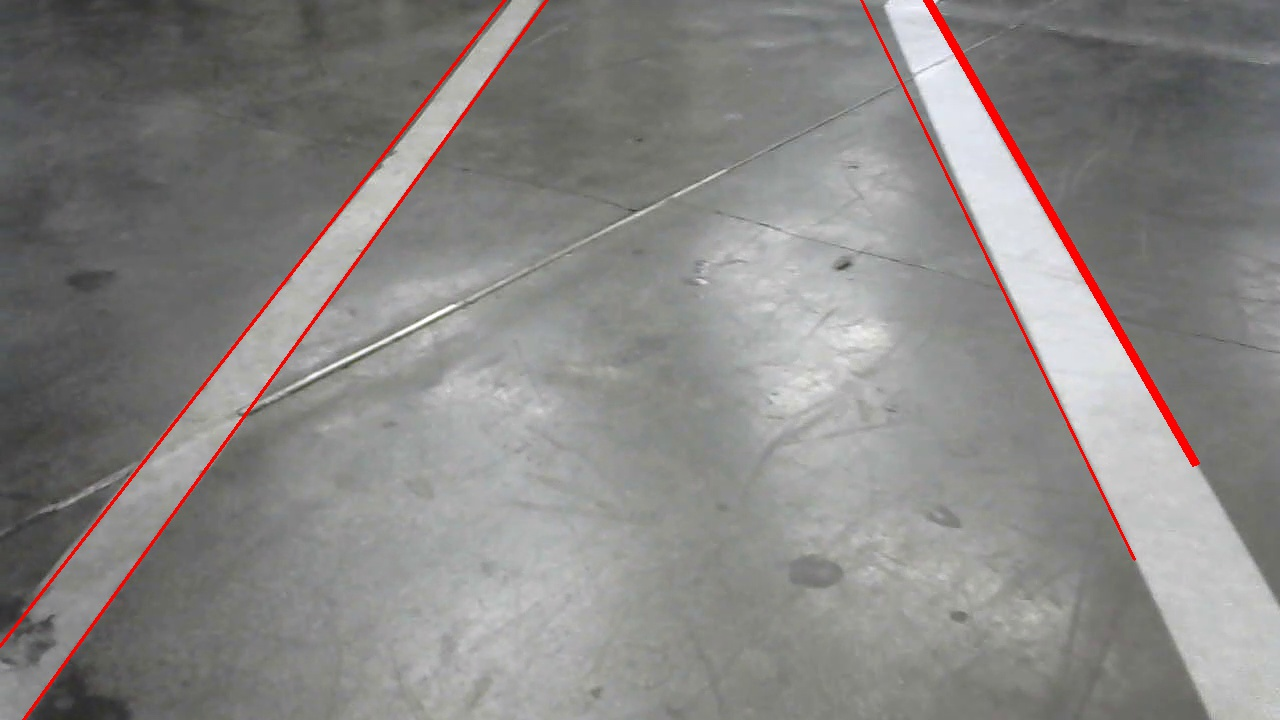
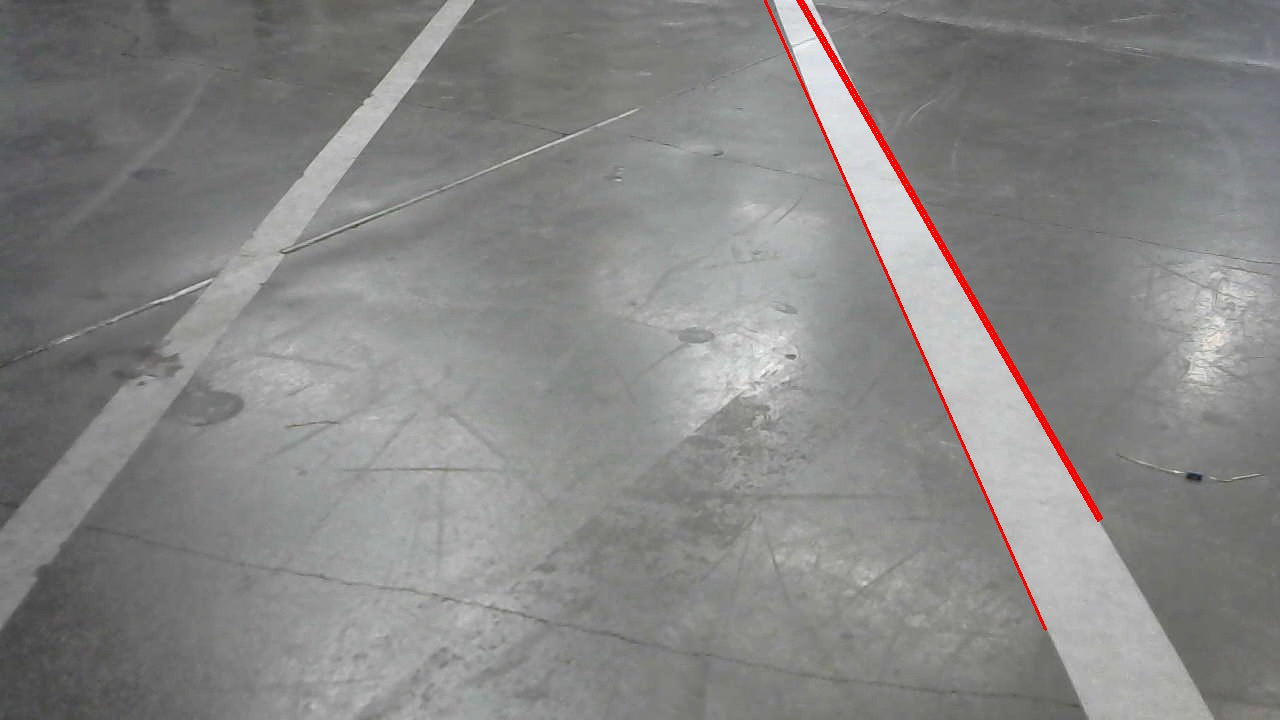
Contours finding

diff --git a/2.py b/2.py
@@ -62,57 +62,23 @@ def lane_making(img):
     color_thresh = color_dist < color_distance_threshold
     mixture = torch.logical_and(color_thresh, lightning)
     thresh_result = torch.where(mixture, 1.0, 0.0)
-    # Applying the Canny Edge filter
-    _, edges = K.filters.canny(thresh_result[None,None,...], 0.01, 0.99)
-    edges = torch.squeeze(edges).cpu().numpy().astype(np.uint8)*255
-    bw = thresh_result.bool()
-    all_highlighted_area = torch.sum(bw)
-    lines = cv2.HoughLines(edges, 1, np.pi / 60, 50, None, 0, 0)
-    if lines is None: return
-    master_q = queue.PriorityQueue()
-    with ThreadPoolExecutor() as e:
-        for line1_indx in range(min(num_lines, len(lines))):
-            e.submit(find_best_lines,master_q,lines, line1_indx, bw.shape, bw, all_highlighted_area)
-    searched_lines = []
-    while not master_q.empty():
-        try:
-            priority, line1, line2 = master_q.get()
-        except:
-            break
-        searched_lines.append(line1)
-        searched_lines.append(line2)
-    for r_theta in searched_lines:
-        arr = np.array(r_theta[0], dtype=np.float64)
-        r, theta = arr
-        # Stores the value of cos(theta) in a
-        a = np.cos(theta)
-
-        # Stores the value of sin(theta) in b
-        b = np.sin(theta)
-
-        # x0 stores the value rcos(theta)
-        x0 = a * r
-
-        # y0 stores the value rsin(theta)
-        y0 = b * r
-
-        # x1 stores the rounded off value of (rcos(theta)-1000sin(theta))
-        x1 = int(x0 + 1000 * (-b))
-
-        # y1 stores the rounded off value of (rsin(theta)+1000cos(theta))
-        y1 = int(y0 + 1000 * (a))
-
-        # x2 stores the rounded off value of (rcos(theta)+1000sin(theta))
-        x2 = int(x0 - 1000 * (-b))
-
-        # y2 stores the rounded off value of (rsin(theta)-1000cos(theta))
-        y2 = int(y0 - 1000 * (a))
-
-        # cv2.line draws a line in img from the point(x1,y1) to (x2,y2).
-        # (0,0,255) denotes the colour of the line to be
-        # drawn. In this case, it is red.
-        cv2.line(img, (x1, y1), (x2, y2), (0, 0, 255), 2)
-    #cv2.imshow('edges', img)
+    # # Applying the Canny Edge filter
+    # _, edges = K.filters.canny(thresh_result[None,None,...], 0.01, 0.99)
+    # edges = torch.squeeze(edges).cpu().numpy().astype(np.uint8)*255
+    bw = torch.squeeze(thresh_result).cpu().numpy().astype(np.uint8)*255
+    contours = cv2.findContours(bw, cv2.RETR_EXTERNAL, cv2.CHAIN_APPROX_SIMPLE)
+    contours = contours[0] if len(contours) == 2 else contours[1]
+    contours_and_weights = []
+    i = 0
+    for cnt in contours:
+        contours_and_weights.append((cv2.contourArea(cnt), i, cnt))
+        i+=1
+    contours_and_weights.sort(reverse=True)
+    contours = []
+    for cnt in range(4):
+        contours.append(contours_and_weights[cnt][2])
+    cv2.drawContours(img, contours, -1, (0, 255, 0), 3)
+    cv2.imshow('edges', img)
     return img
 # Create a VideoCapture object and read from input file
 cap = cv2.VideoCapture('../../data/line_trace/bacho/WIN_20230401_16_16_01_Pro.mp4')
